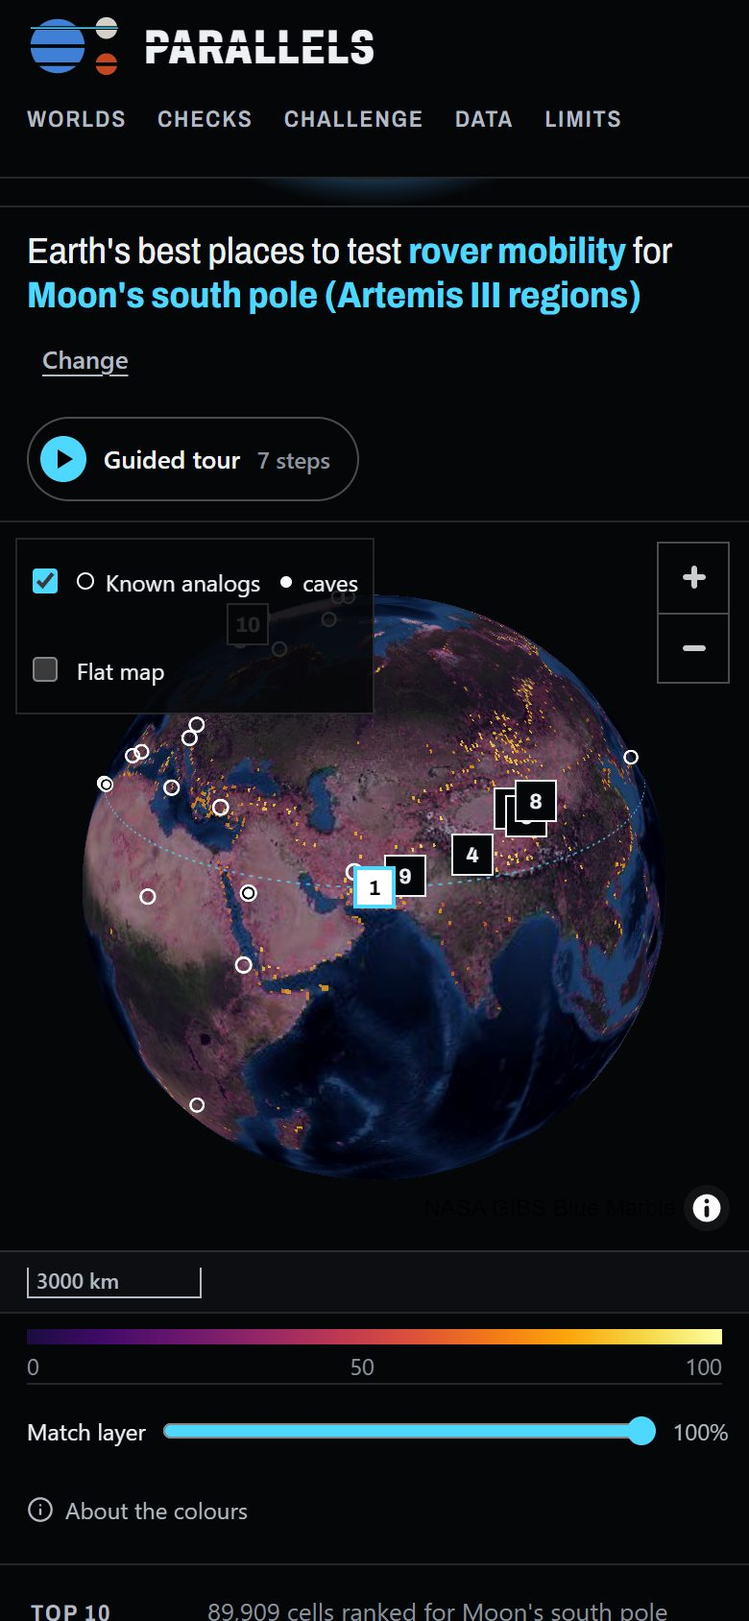
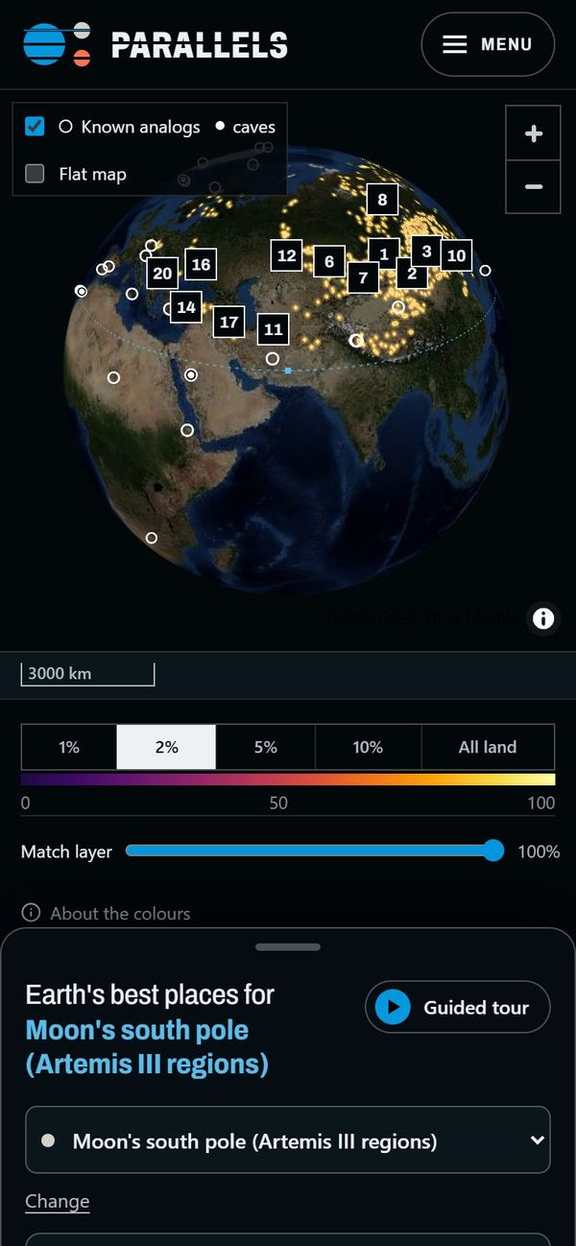
Bring the README up to date: eleven base sites, the Balanced preset, the new pages and screenshots

diff --git a/README.md b/README.md
@@ -11,7 +11,7 @@
 
 Our NASA Space Apps 2026 entry for [Identify Earth Locations that Analog the Permanent Moon Base Locations and Mars](https://www.spaceappschallenge.org/2026/challenges/permanent-moon-base-locations-and-mars/). Event: 14–15 November 2026.
 
-No single place on Earth can stand in for a Moon or Mars base. So we split base-building into challenges, and for each one we rank the Earth sites best suited to test it. Parallels scores **91,971** squares of land (0.5°, about 50 km wide) against **six** Moon and Mars base sites, for **three** kinds of mission. Every match shows what is similar, how similar, and where it breaks, with the dataset behind each number. We check the method against known analog sites and publish the result, pass or fail.
+No single place on Earth can stand in for a Moon or Mars base. So we split base-building into challenges, and for each one we rank the Earth sites best suited to test it. Parallels scores **91,971** squares of land (0.5°, about 50 km wide) against **eleven** Moon and Mars base sites, with a **Balanced** preset where every challenge counts the same and **three** mission presets. Every match shows what is similar, how similar, and where it breaks, with the dataset behind each number. We check the method against known analog sites and publish the result, pass or fail.
 
 **TEAM RMD** · Live site: [dotcatcher.vercel.app](https://dotcatcher.vercel.app) · Use of AI: [How we used AI](#how-we-used-ai)
 
@@ -21,24 +21,24 @@ No single place on Earth can stand in for a Moon or Mars base. So we split base-
 
 <table>
 <tr>
-<td width="50%" valign="top"><img src="docs/images/intro.jpg" alt="The opening screen"><br><b>The opening screen</b><br><sub>Earth's horizon with the Moon and Mars above it. Scrolling picks a base site and a kind of test.</sub></td>
-<td width="50%" valign="top"><img src="docs/images/explore.jpg" alt="Earth's top 10"><br><b>Earth's top 10</b><br><sub>Pick a base site and a mission filter. The globe colours all land by match, and the list shows the ten best places with their scores.</sub></td>
+<td width="50%" valign="top"><img src="docs/images/home.jpg" alt="The opening screen"><br><b>The opening screen</b><br><sub>Earth's horizon with the Moon and Mars above it. Home is one scroll story that ends in the Finder.</sub></td>
+<td width="50%" valign="top"><img src="docs/images/moon.jpg" alt="Choose a base site"><br><b>Choose a base site</b><br><sub>Every Moon and Mars base site with a picture cut from NASA maps. Hover a site to light it on the globe; click to find its matches on Earth.</sub></td>
 </tr>
 <tr>
-<td width="50%" valign="top"><img src="docs/images/match.jpg" alt="One match"><br><b>One match</b><br><sub>The place on Earth beside the Moon or Mars site at the same ground scale, with the score, what matches and what breaks.</sub></td>
-<td width="50%" valign="top"><img src="docs/images/part-by-part.jpg" alt="Part by part"><br><b>Part by part</b><br><sub>Each challenge opens to its traits: the Earth value against the target, Earth's whole range, and both datasets.</sub></td>
+<td width="50%" valign="top"><img src="docs/images/hover.jpg" alt="The Finder"><br><b>The Finder</b><br><sub>The best 2% of land lit on the globe, the top 20 places in a sidebar with a colour chip for every challenge, and a card for each place on hover.</sub></td>
+<td width="50%" valign="top"><img src="docs/images/place.jpg" alt="One match"><br><b>One match</b><br><sub>The place on Earth beside the base site at the same ground scale, with the match score, what matches, what breaks and the dataset behind each value.</sub></td>
 </tr>
 <tr>
-<td width="50%" valign="top"><img src="docs/images/where-it-breaks.jpg" alt="Where it breaks"><br><b>Where it breaks</b><br><sub>The weak traits at this place, and what no place on Earth can copy: gravity, air and radiation.</sub></td>
-<td width="50%" valign="top"><img src="docs/images/how-we-checked.jpg" alt="How we checked it"><br><b>How we checked it</b><br><sub>Every validation run, with the checks that did not pass left on show.</sub></td>
+<td width="50%" valign="top"><img src="docs/images/known.jpg" alt="Where crews already train"><br><b>Where crews already train</b><br><sub>Known analog sites on Earth. Click one to fly the globe there.</sub></td>
+<td width="50%" valign="top"><img src="docs/images/learn.jpg" alt="Learn"><br><b>Learn</b><br><sub>The Moon and Mars in six short sections: temperatures, seasons on Earth, what Earth cannot copy, and NASA photo pairs.</sub></td>
 </tr>
 <tr>
-<td width="50%" valign="top"><img src="docs/images/worlds.jpg" alt="Meet the Moon and Mars"><br><b>Meet the Moon and Mars</b><br><sub>The base site's measured values, what a base there must solve, and where crews already rehearse on Earth.</sub></td>
-<td width="50%" valign="top"><img src="docs/images/phone.jpg" alt="The site on a phone" width="60%"><br><b>On a phone</b><br><sub>The same flow on a small screen, with the guided tour one tap away.</sub></td>
+<td width="50%" valign="top"><img src="docs/images/phone.jpg" alt="The site on a phone" width="60%"><br><b>On a phone</b><br><sub>The map on top and the ranked list in a sheet that slides up over it.</sub></td>
+<td width="50%" valign="top"></td>
 </tr>
 </table>
 
-The screenshots show the live site on 15 November 2026.
+The screenshots show the site on 15 November 2026.
 
 ---
 
@@ -82,22 +82,24 @@ So Parallels asks a narrower question. For each part of a base, where on Earth i
 
 | Capability | Description |
 |---|---|
-| **Base sites** | Six: the Moon's south pole (the nine Artemis III regions) and five Mars sites (Jezero, Gale, Arcadia Planitia, Deuteronilus Mensae and the Arsia Mons caves). Each value names its dataset or paper in `manifest.json`. |
+| **Base sites** | Eleven. On the Moon: the south pole (NASA's nine Artemis III regions combined), four of those regions on their own (Haworth, Malapert Massif, Nobile Rim 1, de Gerlache Rim 2) and the Shackleton rim. On Mars: Jezero, Gale, Arcadia Planitia, Deuteronilus Mensae and the Arsia Mons caves. Each value names its dataset or paper in `manifest.json`. |
 | **Parts of a base** | The Moon has eight challenges and Mars has seven, such as Surface, Resources, Heat swing and Atmosphere and dust. Parts that cannot be measured on both sides are shown, not scored, with the reason. |
-| **Mission filters** | Rover mobility, Life support and Habitat structure. Each one weights the challenges for that kind of test. You can also set the weights by hand. |
-| **Search of all land** | Every square of land is ranked on 17 traits against all of Earth's land, not against a hand-picked list. The globe colours all of it by match. |
-| **Top 10 places** | The ten best places for a base site and filter, each with its score out of 100, coordinates and terrain type. |
+| **Presets** | Balanced (every challenge counts the same; the default) and three mission presets: Rover mobility, Life support and Habitat structure. Sliders change each challenge's weight from 0 to 2×, and the list re-ranks at once. |
+| **Search of all land** | Every square of land is ranked on 17 traits against all of Earth's land, not against a hand-picked list. The globe lights the best 2% of land, with a switch for 1%, 5%, 10% and all land. |
+| **Top 20 places** | The twenty best places, at least 800 km apart and at most two per country, grouped by world region. Each row has a colour chip for every challenge (very close, close, partly, far off), a "New" badge and how often it held its place in the robustness runs. |
+| **Hover card and popup** | Hovering a place shows a NASA Blue Marble picture of it, its coordinates and its match score; clicking opens a popup with its share of land and a link to the full match. |
 | **Side by side** | The Earth place (Landsat) beside the Moon or Mars site (LOLA relief or Viking colour), drawn at the same ground scale, with a wipe to compare. Display only, not scored. |
 | **Match and break** | Each trait shows the Earth value against the base-site value in real units, Earth's whole range, and both datasets. Missing data is shown as missing. |
-| **New places** | A "rarely used" tag marks places more than 100 km from all 50 known analog sites in our list. The Moon's top place for rover mobility is 426 km from the nearest one. |
+| **New places** | "New" marks places more than 100 km from all 50 known analog sites in our list. By default the top 20 shows new places only; one click adds the known sites back. |
 | **Seasons** | Best months, freeze–thaw months and rainy months for each place, and a switch for year-round testing. |
-| **Terrain types** | Arid basin, high-altitude volcanic field, salt flat, frozen ground, and cave or lava tube, each from a visible rule. Filter the top 10 by type. |
-| **Worlds** | The Moon and Mars side: what Earth can't copy, the base site's measured values, the challenges a base there must solve, and the known analog sites. |
-| **Guided tour** | Seven steps through the explorer, from the top 10 to how we checked it. |
-| **Shareable views** | The address holds the base site, filter and place, so a link opens the same match. |
-| **A public check** | Known analogs must beat ordinary places and plain deserts. The rules were fixed in git before each run, and every result is on the site. See [Validation](#validation). |
+| **Terrain types** | Arid basin, high-altitude volcanic field, salt flat, frozen ground, and cave or lava tube, each from a visible rule. Filter the list by type. |
+| **Compare** | Tick two or three places to see their chips and scores side by side. |
+| **Learn** | The Moon and Mars for newcomers: the base site against its best Earth place, a month slider over the best places, what a spacesuit, rover or habitat module weighs on each world, a map of known analogs and NASA photo pairs. |
+| **Guided tour** | Seven steps from choosing a base site on Home to where a match breaks on Earth. |
+| **Shareable views** | The address holds the base site, preset, weights and place, so a link opens the same view. |
+| **A public check** | Known analogs must beat ordinary places and plain deserts. The rules were fixed in git before each run. See [Validation](#validation). |
 
-**Design rule:** the browser computes nothing new for the default view. It selects, groups and displays what the pipeline already computed, so every number on screen traces to a named dataset. Hand-set weights combine the pre-computed ranks; they never recompute a rank or a value.
+**Design rule:** the browser computes nothing new for the default view. It selects, groups and displays what the pipeline already computed, so every number on screen traces to a named dataset. Weight sliders combine the pre-computed ranks; they never recompute a rank or a value.
 
 ---
 
@@ -107,7 +109,7 @@ So Parallels asks a narrower question. For each part of a base, where on Earth i
 ┌──────────────────────────────────────────────────────────────────────────┐
 │ 1. BASE-SITE VALUES                                                      │
 │    Moon and Mars maps (NASA PDS, NASA PGDA, USGS) and published results  │
-│    → one value per trait for each of the six base sites                  │
+│    → one value per trait for each of the eleven base sites               │
 └──────────────────────────────────────────────────────────────────────────┘
                                      ▼
 ┌──────────────────────────────────────────────────────────────────────────┐
@@ -130,14 +132,14 @@ So Parallels asks a narrower question. For each part of a base, where on Earth i
                                      ▼
 ┌──────────────────────────────────────────────────────────────────────────┐
 │ 5. DATA FILES (site/public/data/)                                        │
-│    manifest.json, cells.bin, six target files, labels.json,              │
+│    manifest.json, cells.bin, eleven target files, labels.json,           │
 │    validation.json                                                       │
 └──────────────────────────────────────────────────────────────────────────┘
                                      ▼
 ┌──────────────────────────────────────────────────────────────────────────┐
 │ 6. STATIC SITE (site/)                                                   │
-│    globe and top 10, side-by-side close-up, where each place matches     │
-│    and where it breaks, Worlds, how we checked it, guided tour           │
+│    Home story, Finder (focused map, top 20, weights), one match side by  │
+│    side with where it breaks, Learn, About, guided tour                  │
 └──────────────────────────────────────────────────────────────────────────┘
 ```
 
@@ -145,9 +147,9 @@ So Parallels asks a narrower question. For each part of a base, where on Earth i
 
 ## Status
 
-**Version 1 is live** at [dotcatcher.vercel.app](https://dotcatcher.vercel.app) and is our submission. It ranks every land cell on Earth against six targets: the Moon's south pole and five Mars sites (Jezero, Gale, Arcadia Planitia, Deuteronilus Mensae and the Arsia Mons caves). The map shows method version 1.2. Only the Moon's south pole and Jezero are checked against test places.
+**Version 1 is our submission**, live at [dotcatcher.vercel.app](https://dotcatcher.vercel.app). It ranks every land cell on Earth against eleven base sites, six on the Moon and five on Mars. The map uses method version 1.2; the Balanced preset and the new Moon sites were added without changing the method.
 
-**The method does not pass every check.** It passes 1 of its 4 first checks. In the fourth run, 10 of 15 checks with enough sites pass. On the held-out half, version 1.2 beats ordinary places 96% of the time for the Moon and 76% for Mars. The site shows all of this. See [Validation](#validation) and `site/public/data/validation.json`.
+**How well it works:** on the held-out half of the test places, known analogs beat ordinary places 96% of the time for the Moon and 76% for Mars. In the method's latest run, 10 of 15 checks with enough sites pass, and the Balanced preset also passes 10 of 15. Only the Moon's south pole and Jezero are checked against test places. See [Validation](#validation) and `site/public/data/validation.json`.
 
 ---
 
@@ -161,6 +163,7 @@ So Parallels asks a narrower question. For each part of a base, where on Earth i
 - [docs/v1-spec.md](docs/v1-spec.md): the brief for version 1, including the data file layout.
 - [docs/review-pre-v1.md](docs/review-pre-v1.md): the data and test-place checks made before the build.
 - [docs/judging-notes.md](docs/judging-notes.md): how Space Apps is judged and what past winners did.
+- [docs/v1-roadmap.md](docs/v1-roadmap.md): the last round of site changes, with a tick box for each.
 - [docs/guidelines.md](docs/guidelines.md): how we work, the official rules and our submission checklist.
 - [CLAUDE.md](CLAUDE.md): instructions for Claude, our AI build assistant.
 - [PRODUCT.md](PRODUCT.md): product and design notes for the site.
@@ -183,7 +186,7 @@ Pipeline (Python 3.13). Run each command from the repository root.
 | Terrain | `.venv/Scripts/python -m pipeline.terrain_grid` | Reads Copernicus DEM GLO-90 tiles. Writes slope and relief for each cell. Takes about 30 minutes. |
 | Surface | `.venv/Scripts/python -m pipeline.surface` | Reads GLiM rock, NASA EMIT minerals and MODIS land cover. Writes the surface grid. Needs a free NASA Earthdata login in `~/.netrc`. |
 | Targets | `.venv/Scripts/python -m pipeline.targets` | Reads Moon and Mars maps. Writes `pipeline/derived/targets_v1.json`. |
-| Export | `.venv/Scripts/python -m pipeline.export` | Ranks the cells, runs the validation and writes the files in `site/public/data/`. Add `--method 1.2` to run method versions 1.1 and 1.2 as further validation runs. |
+| Export | `.venv/Scripts/python -m pipeline.export --method 1.2 --method-commit b070766 --weights-commit 16b6a1c --publish 1.3 --publish-commit e21a971` | Ranks the cells, runs every validation run and writes the files in `site/public/data/`. `--method 1.2` runs method versions 1.1 and 1.2 as further runs; `--publish 1.3` adds the extra Moon sites and the Balanced preset. With these arguments the output matches the committed files byte for byte. |
 
 3. Run the tests: `.venv/Scripts/python -m pytest`.
 
@@ -208,16 +211,11 @@ The pipeline and the site meet only through these files in `site/public/data/`. 
 
 | File | What it holds | Size |
 |---|---|---|
-| `manifest.json` | The data list, traits, challenges, mission filters, terrain types, targets and their values, the byte layout of the `.bin` files, the benchmarks, the questions and the "not in this version" list | 230 KB |
+| `manifest.json` | The data list, traits, challenges, presets, terrain types, targets and their values, the byte layout of the `.bin` files, the benchmarks, the questions and the "not in this version" list | 284 KB |
 | `cells.bin` | One value per land cell (91,971 cells) for each of 30 columns: position, climate, terrain, rock, minerals, terrain type and cluster | 4.4 MB |
-| `target-moon-south-pole.bin` | Ranks and scores of every cell against the Moon's south pole | 3.6 MB |
-| `target-mars-jezero.bin` | The same, against Jezero | 3.6 MB |
-| `target-mars-gale.bin` | The same, against Gale | 3.3 MB |
-| `target-mars-arcadia-planitia.bin` | The same, against Arcadia Planitia | 2.8 MB |
-| `target-mars-deuteronilus-mensae.bin` | The same, against Deuteronilus Mensae | 2.8 MB |
-| `target-mars-arsia-mons-caves.bin` | The same, against the Arsia Mons caves | 2.8 MB |
+| `target-<site>.bin` (11 files) | Ranks and scores of every cell against one base site: the Moon's south pole, Haworth, Malapert Massif, Nobile Rim 1, de Gerlache Rim 2, the Shackleton rim, Jezero, Gale, Arcadia Planitia, Deuteronilus Mensae and the Arsia Mons caves | 3.9–4.4 MB each |
 | `labels.json` | 77 labelled places: known analogs, plain deserts, ordinary places and caves | 35 KB |
-| `validation.json` | The test places, pass marks and the results of every run, with the stability check | 276 KB |
+| `validation.json` | The test places, pass marks and the results of every run, with the stability check | 363 KB |
 
 How to read the binary files:
 
@@ -229,13 +227,14 @@ How to read the binary files:
 - `cov:<challenge>` is one byte: the percent of the challenge's trait weight that has data (0 to 100).
 - `score:<filter>` and `score:<filter>:yr` are two bytes each. The values 0 to 10000 mean 0 to 1. The value 65535 means not ranked.
 - `stable:<filter>` is one byte: 1 if the cell stays in the top 20 in at least 90% of 1,000 runs with changed weights, otherwise 0.
+- `keep:<filter>` is one byte: the percent of those runs that kept the cell in the top 20 (0 to 100). Cells that were never in the top 20 have no data.
 - The types are in `site/src/contract.ts`. The layout is in section 6 of [docs/v1-spec.md](docs/v1-spec.md).
 
 ---
 
 ## How we used AI
 
-The core idea and the key design decisions come from our team. We use Claude (Anthropic) to research the challenge and the judging rules, write our planning documents and, during the event, write and test the data pipeline and the site. We check its work at each checkpoint. Our local Challenge Guide asks for mission filters, terrain types and seasons. Claude checked our plan against the guide and we added them. Claude suggested a list of names and we picked Parallels. Our designs, including the logo, are aided by AI. The logo is on the site (header, footer and browser tab), and the site's footer says it was drawn with AI. Any other AI-made image or video carries a visible watermark. On 15 November the team chose the scroll-story opening of another entry, [Terra Nova](https://github.com/Yakiyo/terra-nova), as the model for ours. Claude studied it and wrote our version from scratch, with our own words, data and code; none of its code or images is used.
+The core idea and the key design decisions come from our team. We use Claude (Anthropic) to research the challenge and the judging rules, write our planning documents and, during the event, write and test the data pipeline and the site. We check its work at each checkpoint. Our local Challenge Guide asks for mission filters, terrain types and seasons. Claude checked our plan against the guide and we added them. Claude suggested a list of names and we picked Parallels. Our designs, including the logo, are aided by AI. The logo is on the site (header, footer and browser tab), and the site's footer says it was drawn with AI. Any other AI-made image or video carries a visible watermark. On 15 November the team chose another entry, [Terra Nova](https://github.com/Yakiyo/terra-nova), as the model for the layout of our scroll-story opening, the Moon and Mars site lists, the Finder's sidebar, its colour-coded ranked list and the hover card. Claude studied it and wrote our versions from scratch, with our own words, data and code; none of its code or images is used.
 
 ---
 
@@ -290,6 +289,8 @@ These images are shown, not scored. No NASA logo or insignia is used.
 | [LOLA south-pole shaded relief, 87.5° S to the pole](https://trek.nasa.gov/moon/) | NASA LRO LOLA, via NASA Moon Trek tiles | Public domain (NASA) | Moon side of the close-up (live tiles). Shaded relief from laser altimetry, not a photo. |
 | [CGI Moon Kit: LROC colour map with filled poles](https://svs.gsfc.nasa.gov/4720) | NASA Scientific Visualization Studio (LRO data) | Public domain (NASA) | The 3D Moon in the intro (`site/public/img/moon.jpg`, 2,048 px, and `moon-4k.jpg`, 4,096 px, from the kit's 4K colour map), and the bundled fallback for the Moon close-up. |
 | [Viking MDIM 2.1 global colour mosaic](https://trek.nasa.gov/mars/) | NASA / USGS Astrogeology, via NASA Mars Trek tiles | Public domain (NASA / USGS) | The 3D Mars in the intro (`site/public/img/mars.jpg`, 2,048 px, and `mars-4k.jpg`, 4,096 px, stitched from the 128 Mars Trek tiles at zoom level 3 on 2026-11-15), and the Mars side of the close-up (live tiles, with the bundled copy as fallback). |
+| Site pictures in the Moon and Mars lists | Cut from the CGI Moon Kit and Viking MDIM maps above | Public domain (NASA / USGS) | One square picture per base site, centred on the site; the south-pole sites use a view from above the pole with raised contrast. |
+| [NASA Image and Video Library](https://images.nasa.gov/) and [NASA Photojournal](https://photojournal.jpl.nasa.gov/): s49-92-071, PIA23736, GSFC_20171208_Archive_e001754, PIA22077, iss068e068973, PIA00300, iss045e112699, PIA12954 | NASA, NASA/JPL-Caltech, NASA/GSFC, University of Arizona, USGS, Arizona State University | Public domain (NASA) | The eight photo pairs on the Learn page (`site/public/img/learn/`), each credited under the photo. |
 
 ---
 
@@ -311,12 +312,13 @@ These images are shown, not scored. No NASA logo or insignia is used.
 
 - Each trait is ranked against all of Earth's land. A cell's rank is the share of land, counted by area, that is strictly further from the target value. Land exactly as far away earns no credit.
 - A challenge combines its trait ranks with a weighted geometric mean. A mission filter combines the challenge scores the same way. Ranks have a floor of 0.01.
-- The Moon has eight challenges: Surface, Resources, Dryness, Heat swing, Shelter, Polar light and power, Industrial sites and Dust. Mars has seven: Surface, Resources, Dryness, Heat swing, Shelter, Atmosphere and dust, and Signs of life. The mission filters are Rover mobility, Life support and Habitat structure.
+- The Moon has eight challenges: Surface, Resources, Dryness, Heat swing, Shelter, Polar light and power, Industrial sites and Dust. Mars has seven: Surface, Resources, Dryness, Heat swing, Shelter, Atmosphere and dust, and Signs of life. The presets are Balanced (every challenge weight 1) and the three mission presets: Rover mobility, Life support and Habitat structure.
 - Version 1.0 used hand-set weights. A second run, designed after the first, checked each known analog only on the challenges it is used for.
 - Version 1.1 gave each part of a challenge equal weight and added a volcanic rock trait for Mars. Why: Mars Surface failed clearly in the second run (21% against ordinary places, pass mark 80%). Farmland is as flat as Jezero's floor, and Mars had no rock trait.
 - Version 1.2 counts only land strictly further from the target. Why: the Amazon near Manaus scored above 90% of land for rover mobility at Jezero, because tied values got half credit.
 - Each version replaced the one before only by a rule fixed before it ran. The test places have now been used four times, so no further change will be judged on them.
-- The rules were fixed in git before each run: commits `16b6a1c` (weights, thresholds, pass marks and held-out split), `d48b9ab` (config formatting restored), `7661981` (version 1.1) and `b070766` (version 1.2).
+- `pipeline/config/v1.3.json` is a publishing config, not a method version: it adds the Balanced preset and five Moon sites and changes no score. Every column published before it is byte-identical.
+- The rules were fixed in git before each run: commits `16b6a1c` (weights, thresholds, pass marks and held-out split), `d48b9ab` (config formatting restored), `7661981` (version 1.1), `b070766` (version 1.2) and `e21a971` (the Balanced preset).
 
 ---
 
@@ -330,6 +332,7 @@ We graded the method in public. The weights, the pass marks and the held-out hal
 | Second | Each known analog only on the challenges it is used for | 6 of 11 checks with enough sites pass |
 | Third | Version 1.1: each part of a challenge counts equally; a volcanic rock trait for Mars | 7 of 15 checks with enough sites pass |
 | Fourth | Version 1.2: no credit for tied values. This is the method on the map | 10 of 15 checks with enough sites pass; 6 more have too few sites to count |
+| Fifth | The Balanced preset, same method and pass marks | 10 of 15 checks with enough sites pass; pooled, known analogs beat ordinary places 94% of the time for the Moon and 82% for Mars |
 
 - **Held-out half:** version 1.2 beats ordinary places 96% of the time for the Moon and 76% for Mars.
 - **What still fails:** Mars Surface misses its pass mark (73% against 80%), and so does Mars Dryness. The Moon's polar and highland check reaches 72% against 80%.
@@ -346,11 +349,11 @@ We graded the method in public. The weights, the pass marks and the held-out hal
 | One rock class per cell | The GLiM rock map gives one main rock for each cell. |
 | Minerals cover bare, dry land only | EMIT mineral data is empty outside its coverage and where vegetation, water, cloud or urban areas hide the ground. |
 | Top places change with the weights | We changed the weights by up to 50% in 1,000 runs. For Jezero, 6 of 20 top places stay in the top 20 for rover mobility, 3 of 20 for life support and 0 of 20 for habitat structure. |
-| Only two targets are checked | The Moon's south pole and Jezero are checked against test places. The other four are scored but not validated. |
+| Only two targets are checked | The Moon's south pole and Jezero are checked against test places. The other nine are scored but not validated; the five extra Moon sites say so on the site. |
 | Validation does not pass in full | See [Validation](#validation). The test places were used four times. |
 | Thermal inertia is a label | Mars thermal inertia (NASA TES) is shown, not scored. Earth's side needs a checked conversion first. |
 | No UV, no travel difficulty | UV is not scored or shown. How hard it is to get there is not scored. |
-| Artemis regions | The nine Artemis regions are not separate maps. Their values sit under the Moon's south pole. |
+| Artemis regions | Four of the nine Artemis III regions and the Shackleton rim are their own targets. The other five regions are combined in the Moon's south pole target. |
 | Some ideas are left out | Mars ice maps (SWIM) can only be labels. Martian valley networks have no global Earth layer. The lunar pit atlas was not checked. |
 | Terrain is ESA data | Earth slopes and relief come from Copernicus DEM GLO-90, a European (ESA) dataset. |
 | What Earth can't copy | Low gravity, the Moon's vacuum, Mars's thin air and space radiation. |
